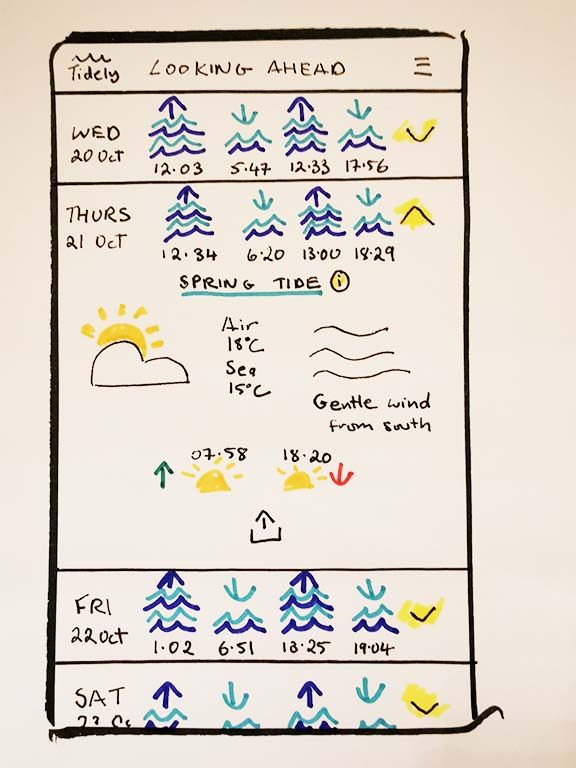
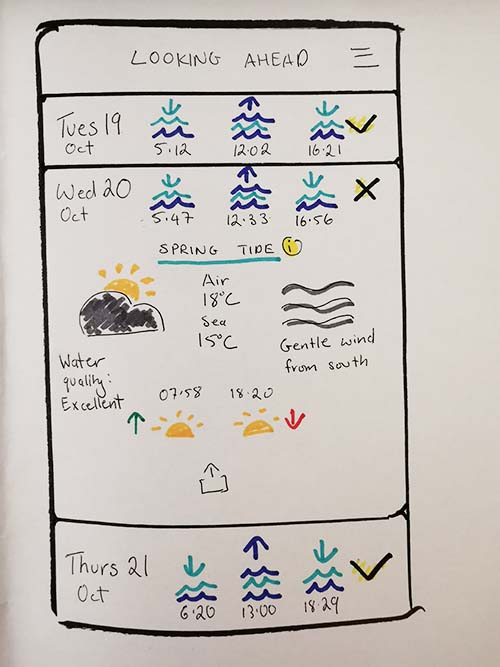
Add:complete section of interaction design

diff --git a/src/client/views/swim.html b/src/client/views/swim.html
@@ -244,8 +244,62 @@
          <img class="map" src="../media/Swim_Flow_Diagram.png">
 
          <section class="swim_full_text">
-         <h5 class ="swim_sub_headings">Interaction Design (coming soon...)</h5>
-      </section>
+         <h5 class ="swim_sub_headings">Interaction Design</h5>
+         <p>I made sketches for the first iteration of the screen design. The primary flow sees the swimmer, having previously allowed GPS
+            while using the app, being presented with a list of nearby swim locations. By choosing a location, they are then shown an 
+            overview of the tides for the next 6 days. By tapping a day, a window opens with detailed info. In this flow, the swimmer 
+            also wants to check what the tide type means, so they tap on the explainer icon.
+         </p>
+         </section>
+        
+         <div class ="swim_screen_row">
+         <div class="swim_screen">
+            <img class ="swim_screen_img" src="../media/swim_app_interaction_1.jpg">
+            <p class="swim_text_small"><b>1.</b> After the app loads, the swimmer is presented with a list of nearby swim spots.
+               As previously mentioned, they are recognised swim spots - places where swimmers are seen regularly. 
+               <br><br>The distance from the swimmer's current location to the swim spot is shown. 
+               <br><br>The menu bar allows for alternative swim search options: a list of all locations, ordered by county & an option to search by map. 
+
+            </p>
+         </div>
+         <div class="swim_screen">
+            <img class ="swim_screen_img" src="../media/swim_app_interaction_2.jpg">
+            <p class="swim_text_small"><b>2.</b> The swimmer is then shown an overview of tide times for the next 6 days. According to my 
+            research - swimmers want to know the tide times first - to see if those times fit into their schedule and then want to know 
+         more information eg. conditions, weather. <br><br>Having drawn this first iteration, I'm concerned the screen is a little busy - it might overwhelm 
+         the first time user.
+      However, I'd like to test it first in a medium fidelity prototype before assuming or changing anything yet.<br><br>
+   Also, I think instead of 'Looking Ahead', it should be the selected location in the next iteration. </p>
+         </div>
+         </div>
+
+      <div class="swim_screen_row">
+         <div class="swim_screen">
+            <img class="swim_screen_img" src="../media/swim_app_interaction_3.jpg">
+            <p class="swim_text_small"><b>3.</b> When the swimmer taps on a day, a window opens to show more detailed information:<br><br>
+            
+               -Tide type is shown eg. spring tide/ neap tide with a link to explanation.<br><br>
+               -Weather icon along with sea & air temperature<br><br>
+               -Wind information is given with icon and simple language.<br><br>
+               -Sunrise & sunset times<br><br>
+               -If water quality information is available, it's shown.<br><br>
+               -Icon to share the info for that day.<br><br>
+            
+           This is a really important screen to get right - so I think I'll test and iterate it afew times.
+               
+             </p>
+         </div>
+         <div class="swim_screen">
+            <img class ="swim_screen_img" src="../media/swim_app_interaction_4.jpg">
+            <p class="swim_text_small"><b>4.</b> Seeing the tide type ie. 'spring tide' in this case on the previous screen, the swimmer wants 
+               to check what this means. When they click 'spring tide' or the 'i' icon on the previous screen, this explainer screen pops up. 
+               It offers brief explanations of main tide types in Ireland - emphasising what it means for swimmers rather than much technical or scientific information.
+            </p>
+         </div>
+         </div>
+
+         <h3 class ="tide_checking">Prototyping    (coming soon.....)</h3>
+      
  
   
 

diff --git a/src/client/styles/swim.scss b/src/client/styles/swim.scss
@@ -23,7 +23,7 @@ $swim:#0096FF;
     color:$swim;
 }
 
-.swim_list, .swim_quotes{
+.swim_list, .swim_quotes, .swim_text_small{
     background-color: #bee0f8;
     padding-left:15px;
     padding-right:15px;
@@ -111,6 +111,7 @@ $swim:#0096FF;
     margin-bottom:18vh;
 }
 
+
 @media(max-width:599px){
 
    #header{
@@ -151,6 +152,12 @@ $swim:#0096FF;
         height:40vh;
         margin-bottom:8vh;
     }
+
+   .swim_screen_img{
+       width:80vw;
+       margin-left:7vw;
+       margin-top:20px;
+   }
  
     
 
@@ -203,6 +210,18 @@ $swim:#0096FF;
         width:80vw;
         margin-left:3vw;
 
+    }
+
+    
+.swim_screen_row{
+    display:flex;
+    flex-direction: row;
+}
+
+    .swim_screen_img{
+        width:300px;
+        margin-left:40px;
+        margin-top:50px;
     }
 
  
@@ -283,6 +302,28 @@ flex-direction:row;
         margin-left:5vw;
         margin-top:0%;
     }
+
+    .swim_screen{
+        width:400px;
+        margin-left:5vw;
+        margin-bottom:5vh;
+    }
+
+
+    .swim_screen_img{
+        width:350px;
+        margin-left:25px;
+    }
+
+    .swim_screen_row{
+        margin-left:2vw;
+    }
+
+    
+.swim_screen_row{
+    display:flex;
+    flex-direction: row;
+}
 
     
 }
@@ -367,4 +408,31 @@ background-color:white;
         margin-left:100px;
        
     }
+
+    .swim_screen{
+        width:600px;
+        margin-left:5vw;
+        margin-bottom:5vh;
+    }
+
+
+    .swim_screen_img{
+        width:400px;
+        margin-left:100px;
+    }
+
+    .swim_screen_row{
+        margin-left:2vw;
+    }
+
+    
+.swim_screen_row{
+    display:flex;
+    flex-direction: row;
+}
+
+
+        
+
+    
 }
